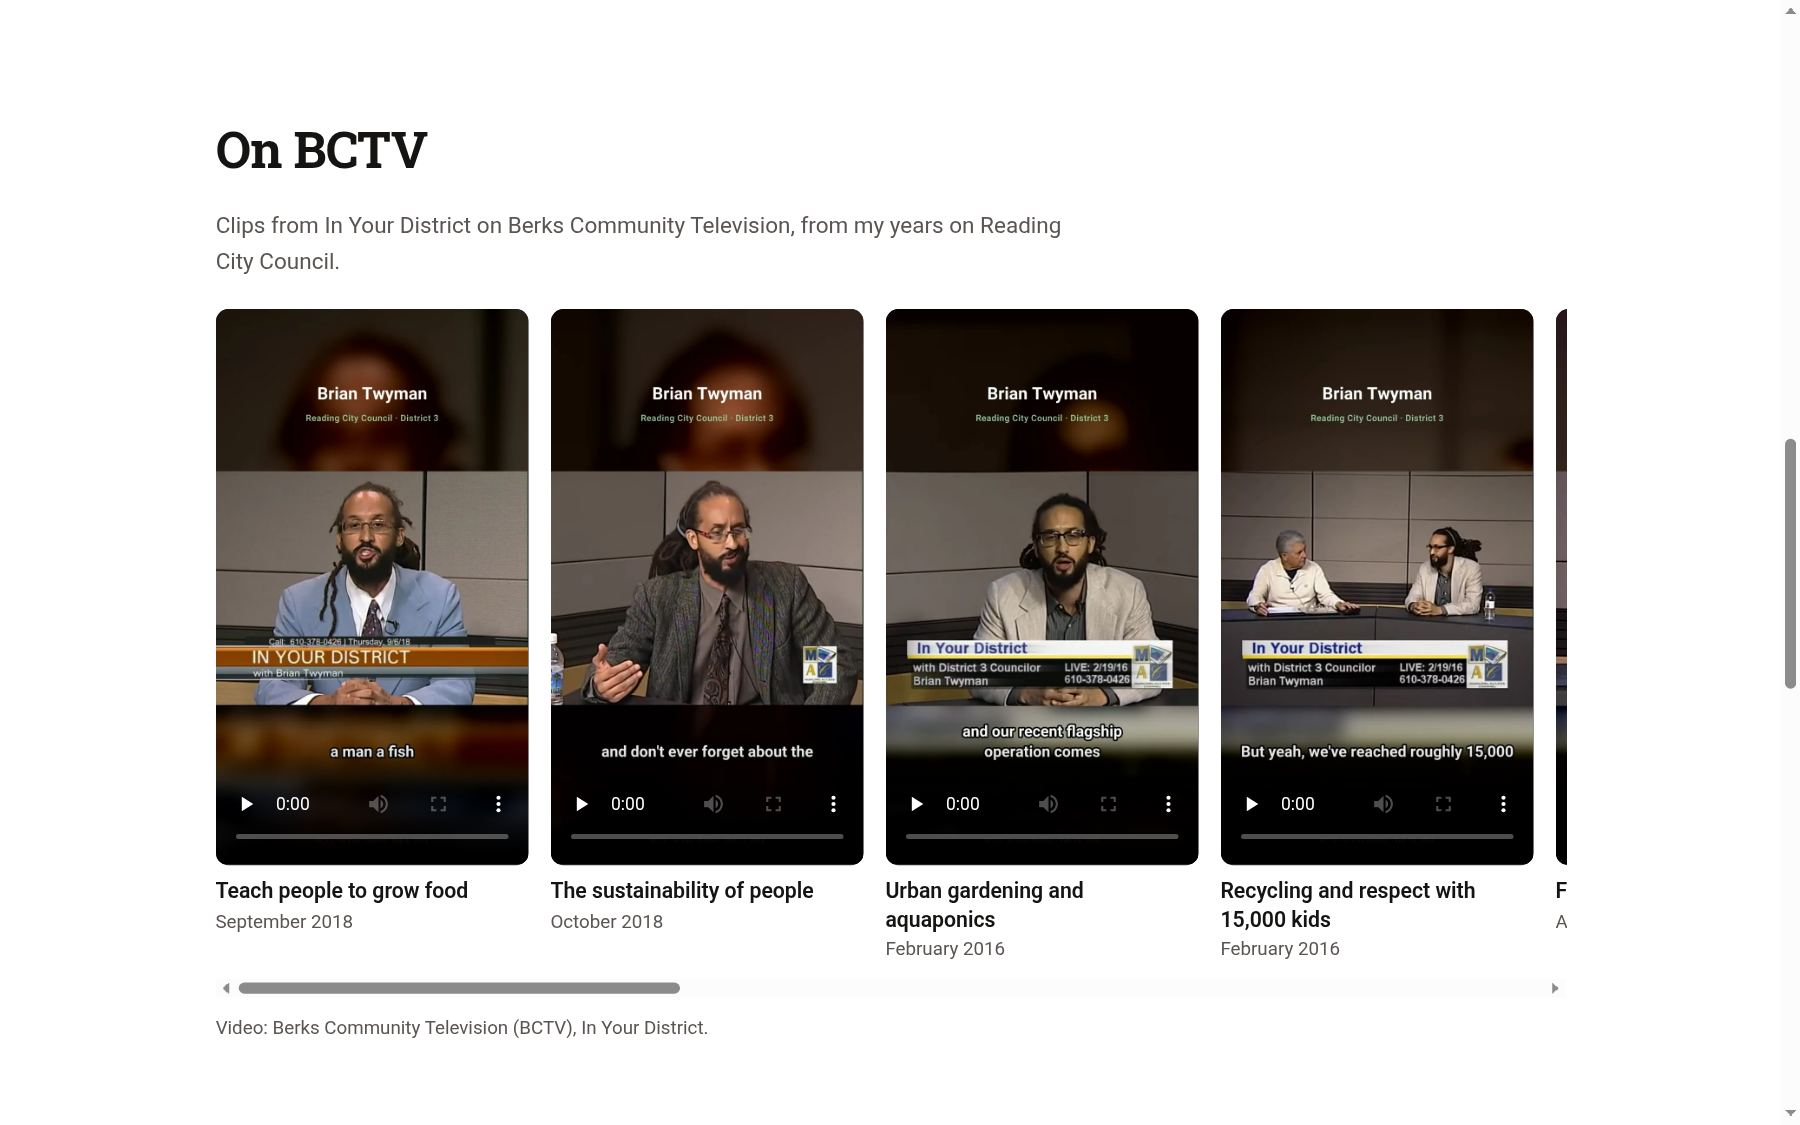
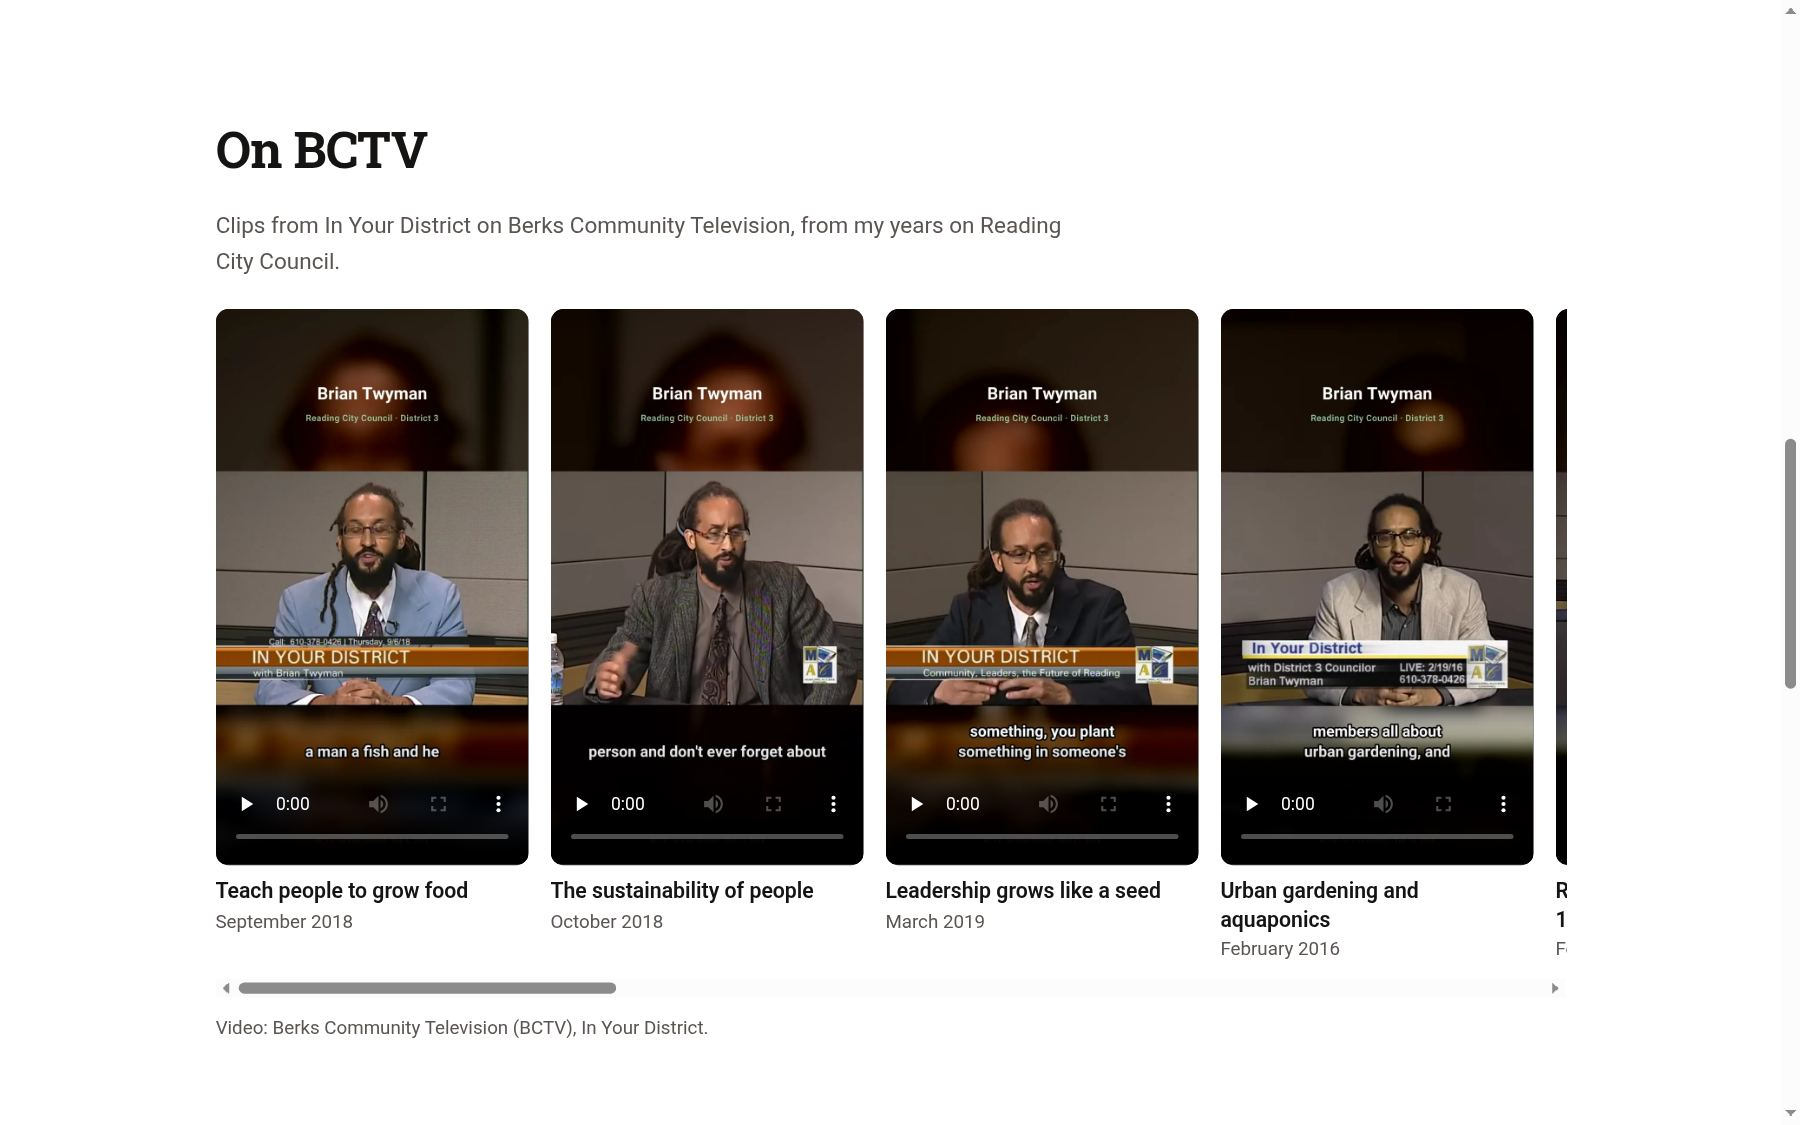
Pitch: Brian Twyman, 14 BCTV clips (2016-2019)
Claude-Session: https://claude.ai/code/session_01UvJPbW62prp66Ry4TmhoSN

diff --git a/pitch/brian-twyman/index.html b/pitch/brian-twyman/index.html
@@ -221,7 +221,7 @@ footer .wrap{display:flex;justify-content:space-between;flex-wrap:wrap;gap:12px}
   <div class="wrap">
     <span class="eyebrow">Why now</span>
     <h2>Your work is real. Online, it&#x27;s hard to find.</h2>
-    <div class="stats"><div class="stat"><div class="num">0</div><p><strong>mentions of your consulting</strong> on briantwyman.org today. It talks about water delivery, so people looking for a sustainability consultant don&#x27;t find you.</p></div><div class="stat"><div class="num">3</div><p><strong>services, in plain words:</strong> sustainability, civic, and school-based education consulting.</p></div><div class="stat"><div class="num">12</div><p><strong>BCTV clips</strong> from In Your District, 2016 to 2018, showing you on food security, recycling with kids, and community.</p></div><div class="stat"><div class="num">1 tap</div><p><strong>to reach you.</strong> Call, text, email, or a short message form, right on the page.</p></div></div>
+    <div class="stats"><div class="stat"><div class="num">0</div><p><strong>mentions of your consulting</strong> on briantwyman.org today. It talks about water delivery, so people looking for a sustainability consultant don&#x27;t find you.</p></div><div class="stat"><div class="num">3</div><p><strong>services, in plain words:</strong> sustainability, civic, and school-based education consulting.</p></div><div class="stat"><div class="num">14</div><p><strong>BCTV clips</strong> from In Your District, 2016 to 2019, showing you on food security, recycling with kids, leadership, and community.</p></div><div class="stat"><div class="num">1 tap</div><p><strong>to reach you.</strong> Call, text, email, or a short message form, right on the page.</p></div></div>
   </div>
 </section>
 
@@ -341,7 +341,7 @@ footer .wrap{display:flex;justify-content:space-between;flex-wrap:wrap;gap:12px}
 
 <footer><div class="wrap"><span>© 2026 Bristol Business Systems · Bristol, Vermont</span><span>Prepared for Brian Twyman</span></div></footer>
 
-<script>window.PITCH={"client_name": "Brian Twyman", "preview_url": "https://cornflowerblue-sandpiper-932372.hostingersite.com", "tour": {"heading": "One page, built around your work.", "lede": "It reads well on a phone, loads fast, and you can change any words or photos yourself. Pick a part to look around.", "pages": [{"key": "top", "label": "Top", "path": "/", "notes": [["Who you are, straight away", "Your name, what you do, and your photo, with Get in touch and Call buttons."], ["What you do", "Sustainability, civic, and school-based education consulting, each in a sentence."], ["Who you work with", "Communities, schools, daycares, and youth programs."]]}, {"key": "watch", "label": "On BCTV", "path": "/#watch", "notes": [["Your record, on video", "12 short clips from your BCTV shows, with captions."], ["Swipe through", "On a phone the clips sit in one row you swipe sideways."], ["Ready for social media too", "The same clips come as tall videos for Instagram, Facebook, and TikTok."]]}, {"key": "contact", "label": "Contact", "path": "/#contact", "notes": [["Call, text, or email", "Big buttons that work on any phone."], ["A short message form", "Name, a way to reply, who it's for, and how you can help. No puzzles to click."], ["Found on Google", "Proper page title, description, and your details set up for search."]]}]}, "plans": [{"id": "A", "name": "Website", "short": "Website", "tag": "Start here", "price": 59, "desc": "The one-page site with your BCTV clips and contact form, plus domain, hosting, security, backups, updates, and small changes.", "includes": ["<strong>One-page website<\/strong> with your BCTV clips", "Messages from the form sent to your email", "Domain, hosting, security, backups", "Updates and small changes included"]}, {"id": "B", "name": "Website + customer system", "short": "Website + customer system", "price": 99, "price_suffix": "/mo total", "desc": "Everything in A. Every message lands in your own contact list with its history, people get an instant \"got your message\" email, and they can book a call from your open times.", "includes": ["<strong>Everything in A<\/strong>", "Messages land in your contact list", "Instant \"got your message\" email", "People book a call from your open times", "Each contact's history in one place"]}], "calc": {"lede": "Schools and groups look you up before they call. Move the sliders to match your work.", "leads_label": "New people who find you online, per week", "leads": 1, "leads_hint": "People who land on your site and send a message or call.", "conv": 25, "ticket_label": "Average project or program", "ticket": 1000, "ticket_min": 200, "ticket_max": 10000, "ticket_hint": "For example, a workshop series or a school program. Use your own number.", "job_noun": "project", "ticket_step": 100, "leads_max": 20, "conv_label": "How many of them become a job"}, "img_base": "/pitch/brian-twyman/img"};</script>
+<script>window.PITCH={"client_name": "Brian Twyman", "preview_url": "https://cornflowerblue-sandpiper-932372.hostingersite.com", "tour": {"heading": "One page, built around your work.", "lede": "It reads well on a phone, loads fast, and you can change any words or photos yourself. Pick a part to look around.", "pages": [{"key": "top", "label": "Top", "path": "/", "notes": [["Who you are, straight away", "Your name, what you do, and your photo, with Get in touch and Call buttons."], ["What you do", "Sustainability, civic, and school-based education consulting, each in a sentence."], ["Who you work with", "Communities, schools, daycares, and youth programs."]]}, {"key": "watch", "label": "On BCTV", "path": "/#watch", "notes": [["Your record, on video", "14 short clips from your BCTV shows, with captions."], ["Swipe through", "On a phone the clips sit in one row you swipe sideways."], ["Ready for social media too", "The same clips come as tall videos for Instagram, Facebook, and TikTok."]]}, {"key": "contact", "label": "Contact", "path": "/#contact", "notes": [["Call, text, or email", "Big buttons that work on any phone."], ["A short message form", "Name, a way to reply, who it's for, and how you can help. No puzzles to click."], ["Found on Google", "Proper page title, description, and your details set up for search."]]}]}, "plans": [{"id": "A", "name": "Website", "short": "Website", "tag": "Start here", "price": 59, "desc": "The one-page site with your BCTV clips and contact form, plus domain, hosting, security, backups, updates, and small changes.", "includes": ["<strong>One-page website<\/strong> with your BCTV clips", "Messages from the form sent to your email", "Domain, hosting, security, backups", "Updates and small changes included"]}, {"id": "B", "name": "Website + customer system", "short": "Website + customer system", "price": 99, "price_suffix": "/mo total", "desc": "Everything in A. Every message lands in your own contact list with its history, people get an instant \"got your message\" email, and they can book a call from your open times.", "includes": ["<strong>Everything in A<\/strong>", "Messages land in your contact list", "Instant \"got your message\" email", "People book a call from your open times", "Each contact's history in one place"]}], "calc": {"lede": "Schools and groups look you up before they call. Move the sliders to match your work.", "leads_label": "New people who find you online, per week", "leads": 1, "leads_hint": "People who land on your site and send a message or call.", "conv": 25, "ticket_label": "Average project or program", "ticket": 1000, "ticket_min": 200, "ticket_max": 10000, "ticket_hint": "For example, a workshop series or a school program. Use your own number.", "job_noun": "project", "ticket_step": 100, "leads_max": 20, "conv_label": "How many of them become a job"}, "img_base": "/pitch/brian-twyman/img"};</script>
 <script>
 (function(){
   var P=window.PITCH, IMG=P.img_base, SITE=P.preview_url;
